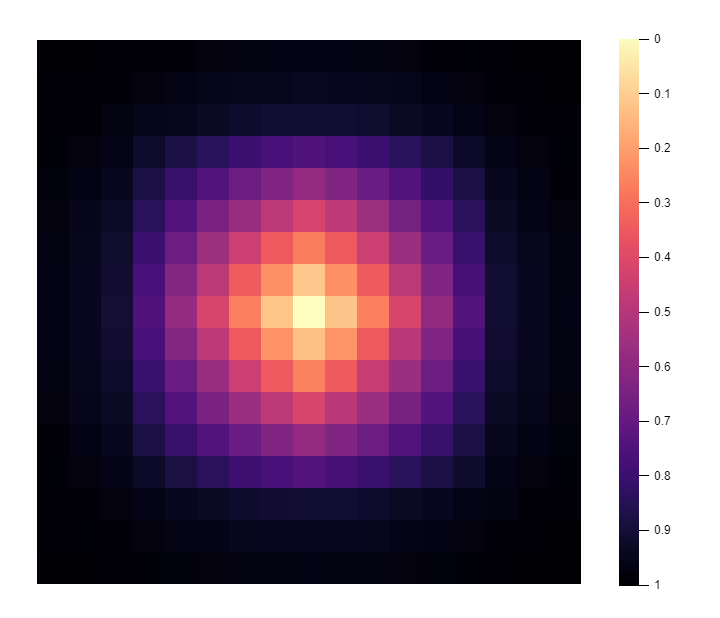
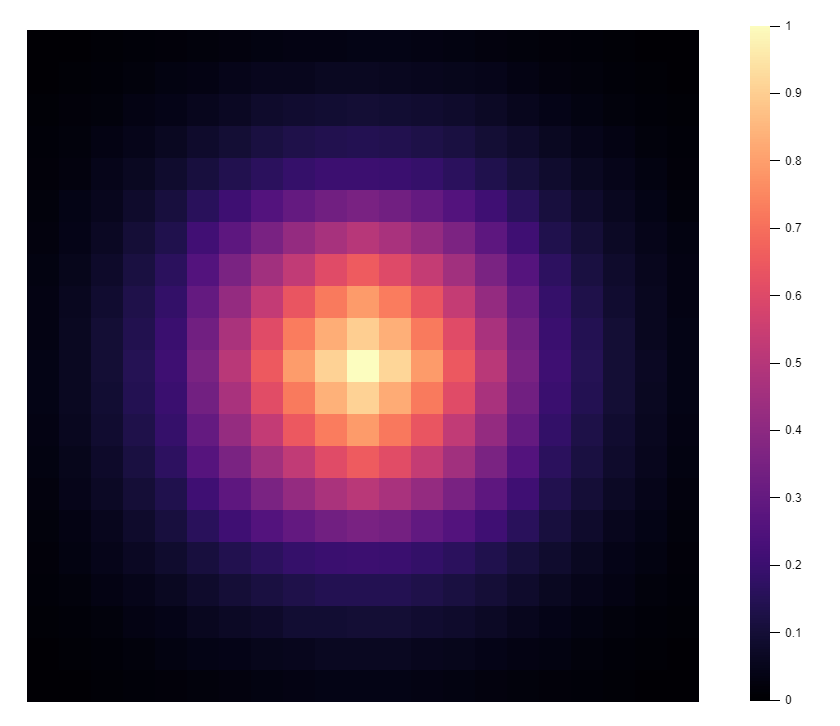
writing

diff --git a/generated-site/mobspawning.html b/generated-site/mobspawning.html
@@ -6,7 +6,7 @@
 };
 
 loadSetting("serif");
-loadSetting("darkmode");</script><script defer src="static/scripts/ui.js"></script><link rel="icon" type="image/png" sizes="16x16" href="static/images/favicon.png"><link rel="canonical" href="https://blog.bithole.dev/mobspawning.html"></head><body><header><a href="/"><img src="static/images/banner.jpg" alt="blog banner"></a></header><main><p id="date" class="date">July 8, 2022</p><h1 style="margin-top: 0">Minecraft Mob Spawning, Explained (1.19)</h1><nav><div id="contents"><p>Table of Contents</p><a href="#mob-categories"><p>Mob Categories</p></a><a href="#mob-cap"><p>Mob Cap</p></a><a href="#practical-example"><p>Practical Example</p></a><a href="#mob-cap-quirks"><p>Mob Cap Quirks</p></a><a href="#spawning"><p>Spawning</p></a><a href="#pack-spawning"><p>Pack Spawning</p></a><a href="#axolotl"><p>Axolotl</p></a><a href="#water-animals"><p>Water Animals</p></a><a href="#drowned"><p>Drowned</p></a><a href="#guardian"><p>Guardian</p></a><a href="#tropical-fish"><p>Tropical Fish</p></a><a href="#monsters"><p>Monsters</p></a><a href="#animals"><p>Animals</p></a><a href="#frog"><p>Frog</p></a><a href="#ghast"><p>Ghast</p></a><a href="#glow-squid"><p>Glow Squid</p></a><a href="#goat"><p>Goat</p></a><a href="#husk"><p>Husk</p></a><a href="#magma-cube"><p>Magma Cube</p></a><a href="#mooshroom"><p>Mooshroom</p></a><a href="#ocelot"><p>Ocelot</p></a><a href="#parrot"><p>Parrot</p></a><a href="#hoglin"><p>Hoglin</p></a><a href="#piglin"><p>Piglin</p></a><a href="#polar-bear"><p>Polar Bear</p></a><a href="#rabbit"><p>Rabbit</p></a><a href="#slime"><p>Slime</p></a><a href="#stray"><p>Stray</p></a><a href="#strider"><p>Strider</p></a><a href="#turtle"><p>Turtle</p></a><a href="#wolf"><p>Wolf</p></a><a href="#despawning"><p>Despawning</p></a><a href="#spawning-potentials"><p>Spawning Potentials</p></a></div><button id="show-toc">&#9776; Contents</button></nav><p><strong>Prologue:</strong> Thanks to all the members of the technical Minecraft community who answered my requests for comments and clarifications.</p>
+loadSetting("darkmode");</script><script defer src="static/scripts/ui.js"></script><link rel="icon" type="image/png" sizes="16x16" href="static/images/favicon.png"><link rel="canonical" href="https://blog.bithole.dev/mobspawning.html"></head><body><header><a href="/"><img src="static/images/banner.jpg" alt="blog banner"></a></header><main><p id="date" class="date">July 8, 2022</p><h1 style="margin-top: 0">Minecraft Mob Spawning, Explained (1.19)</h1><nav><div id="contents"><p>Table of Contents</p><a href="#mob-categories"><p>Mob Categories</p></a><a href="#mob-cap"><p>Mob Cap</p></a><a href="#practical-example"><p>Practical Example</p></a><a href="#mob-cap-quirks"><p>Mob Cap Quirks</p></a><a href="#spawning"><p>Spawning</p></a><a href="#pack-spawning-mechanics"><p>Pack Spawning Mechanics</p></a><a href="#axolotl"><p>Axolotl</p></a><a href="#water-animals"><p>Water Animals</p></a><a href="#drowned"><p>Drowned</p></a><a href="#guardian"><p>Guardian</p></a><a href="#tropical-fish"><p>Tropical Fish</p></a><a href="#monsters"><p>Monsters</p></a><a href="#animals"><p>Animals</p></a><a href="#frog"><p>Frog</p></a><a href="#ghast"><p>Ghast</p></a><a href="#glow-squid"><p>Glow Squid</p></a><a href="#goat"><p>Goat</p></a><a href="#husk"><p>Husk</p></a><a href="#magma-cube"><p>Magma Cube</p></a><a href="#mooshroom"><p>Mooshroom</p></a><a href="#ocelot"><p>Ocelot</p></a><a href="#parrot"><p>Parrot</p></a><a href="#hoglin"><p>Hoglin</p></a><a href="#piglin"><p>Piglin</p></a><a href="#polar-bear"><p>Polar Bear</p></a><a href="#rabbit"><p>Rabbit</p></a><a href="#slime"><p>Slime</p></a><a href="#stray"><p>Stray</p></a><a href="#strider"><p>Strider</p></a><a href="#turtle"><p>Turtle</p></a><a href="#wolf"><p>Wolf</p></a><a href="#despawning"><p>Despawning</p></a><a href="#spawning-potentials"><p>Spawning Potentials</p></a></div><button id="show-toc">&#9776; Contents</button></nav><p><strong>Prologue:</strong> Thanks to all the members of the technical Minecraft community who answered my requests for comments and clarifications.</p>
 <p>This article aims to fully describe the Minecraft spawning algorithm as it exists in <strong>Java Edition 1.19</strong>.</p>
 <p>These are the major steps in the spawning algorithm, in order:</p>
 <ul>
@@ -162,7 +162,7 @@ loadSetting("darkmode");</script><script defer src="static/scripts/ui.js"></scri
 <li>Withers</li>
 <li>Zombie villagers which are converting or have been traded with before</li>
 </ul>
-<h1 id="spawning">Spawning <a class="section-link" href="#spawning">&sect;</a></h1><p>Now, the game actually starts looking for a location to spawn a mob. It begins by selecting a random X and Z value; next, it looks up the height of the highest non-air block at that X/Z combo, and picks a random Y-value between the minimum build height and the Y-coordinate of air block above the highest block. Once a location is picked, the game checks if the block at that location is a full block, soul sand or mud. If so, the spawn attempt immediately ends. Otherwise, it will make up to three attempts to spawn a pack of mobs near that location.</p>
+<h1 id="spawning">Spawning <a class="section-link" href="#spawning">&sect;</a></h1><p>Now, the game actually starts looking for a location to spawn a mob. It begins by selecting a random X and Z value; next, it looks up the height of the highest non-air block at that X/Z combo, and picks a random Y-value between the minimum build height and the Y-coordinate of air block above the highest block. Once a location is picked, the game checks if the block at that location is a full block, soul sand or mud. If so, the spawn attempt immediately ends. Otherwise, it will make up to <strong>three</strong> attempts to spawn a pack of mobs near that location.</p>
 <aside>
 
 <p>The Y-value of the highest block for every X/Z combo is known as the <strong>heightmap</strong>. The heightmap of your current position is displayed on the debug screen as &quot;CH S&quot;.</p>
@@ -182,19 +182,24 @@ loadSetting("darkmode");</script><script defer src="static/scripts/ui.js"></scri
     <figcaption>The platform on the left had a layer of blocks above it at Y=255, while the platform on the right was not covered. Both platforms were allowed to spawn mobs for 15 seconds. There are nearly twice as many mobs on the uncovered platform compared to the covered one, demonstrating the importance of keeping the heightmap low in a mob farm.</figcaption>
 </figure>
 
-<h2 id="pack-spawning">Pack Spawning <a class="section-link" href="#pack-spawning">&sect;</a></h2><p>Minecraft spawns all mobs in packs, meaning that one spawn attempt may result in multiple mobs being spawned. Keep in mind that the algorithm can be rather idiosyncratic and knowing all the details is not too important when it comes to farm optimization.</p>
+<p>Keep in mind that there are practical tradeoffs to these recommendations. For instance, if you build your farm very low in the world, you will need to eliminate all spawnable spaces within 128 blocks of its proximity to prevent those spawns from filling up the mob cap. This means either lighting up all the caves within that radius or excavating a perimeter. I am way too lazy to do either of those things, so I usually build my farms above ground so I can position my AFK spot such that there are no unwanted spawnable spaces. </p>
+<h2 id="pack-spawning-mechanics">Pack Spawning Mechanics <a class="section-link" href="#pack-spawning-mechanics">&sect;</a></h2><p>Minecraft spawns all mobs in packs, meaning that one spawn attempt may result in multiple mobs being spawned. Keep in mind that the algorithm can be rather idiosyncratic and knowing all the details is not too important when it comes to farm optimization.</p>
 <p>The game starts by setting a counter for the number of remaining attempts to spawn a pack of mobs. This counter is initialized with a random value from 1 to 5.</p>
 <p>Next, the game adds a random X and Z offset between -5 and 5 to the current position. These values are picked so that smaller offsets are more common than further offsets; specifically, they follow a <a href="https://en.wikipedia.org/wiki/Triangular_distribution">triangular distribution</a>. Next, the game checks if the spot is within 24 blocks of the player or the world spawn point. If either of these conditions is met, the game repeats the process. Note that each time, the offset is added to the already-offsetted position, which means that pack spawn attempts can wander rather far away from the initial position (up to 20 blocks for a pack size of 4). However, in practice, this is unlikely; here&#39;s a heatmap showing the spatial distribution of pack spawn attempts.</p>
 <p><img src="resources/spawning/packspawn-heatmap.png" alt="pack spawn heatmap"></p>
-<p>As you can see, most of the attempts end up pretty close to the initial location; in fact, around 76% of all attempts are within 5 blocks of the initial location.</p>
-<p>Pack spawning is why building an overhang in a mob farm may increase its rates. By raising the heightmap in the blocks surrounding the spawning platforms, spawn attempts that begin outside of the farm could still find their way in. This is also why you should never place solid opaque blocks at foot level anywhere in the farm, since if a spawn attempt begins at that position it will instantly end. This includes the walls of the farm.</p>
+<p>As you can see, most of the attempts end up pretty close to the initial location; in fact, over 75% of all attempts are within 10 blocks of the initial location.</p>
+<p>Since I am a total nerd, we can also use this data to create a distribution of pack spawns according to distance. Here&#39;s what that looks like:</p>
+<p><img src="resources/spawning/distance-distr.png" alt="cumulative distribution of pack spawn distance"></p>
+<p><em>Just for fun :)</em></p>
+<p>Anyways, now for the practical implications. Pack spawning is why building an overhang in a mob farm may increase its rates. By raising the heightmap in the blocks surrounding the spawning platforms, spawn attempts that begin outside of the farm could still find their way in. </p>
+<p>This is also why you should never place solid opaque blocks at foot level anywhere in the farm, since if the game randomly selects that block nothing will spawn in that chunk for that tick. This includes the walls of the farm and positions outside of the farm.</p>
 <figure style="max-width: 560px">
     <img src="resources/spawning/footlevel.png" alt="explanation of why foot level blocks are bad">
     <figcaption>Do not do this. I have ways of finding you.</figcaption>
 </figure>
 
 <p>Anyways, if the position is <em>not</em> within 24 blocks of the player/world spawn and its chunk is loaded, the game gets the biome at that position and checks which mobs can spawn. At this stage, if the biome is a river biome and the category is water ambient mobs, there is a 98% chance that the spawn attempt will fail. At that point, the game moves the position by a random offset and checks the biome again until the attempt succeeds or the counter is exhausted.</p>
-<p>Each biome has specific settings for what mobs can spawn, the relative frequency of each mob type, and their pack sizes. The <a href="https://minecraft.fandom.com/wiki/Minecraft_Wiki">Minecraft Wiki</a> has this information on each of their biome pages, but I found that some of those figures are out of date, so I decided to make a page containing all the relevant. <a href="mob-spawning-weights.html">Check it out</a>!</p>
+<p>Each biome has specific settings for what mobs can spawn, the relative frequency of each mob type, and their pack sizes. The <a href="https://minecraft.fandom.com/wiki/Minecraft_Wiki">Minecraft Wiki</a> has this information on each of their biome pages, but I wanted to have all of those values in one place, so I made a page based on the values found in the game code. <a href="mob-spawning-weights.html">Check it out</a>!</p>
 <p>To find the probability of a mob type being chosen, simply divide its weight by the total of the weights of all mob types that could spawn in a given biome. For example, consider the plains monster weights:</p>
 <table>
 <thead>

diff --git a/generated-site/resources/spawning/generate-heatmap.html b/generated-site/resources/spawning/generate-heatmap.html
@@ -1,0 +1,78 @@
+<!DOCTYPE html>
+<html>
+    <head>
+        <style>
+            canvas {
+                border: 1px solid #aaa;
+            }
+        </style>
+    </head>
+    <body>
+        <canvas id="canvas" width="720" height="720"></canvas>
+        <script src="colormap.js"></script>
+        <script>
+            const SIZE = 21, COUNT = 1000000;
+            const arr = new Array(SIZE).fill().map(() => new Array(SIZE).fill(0));
+            const randint = max => Math.floor(Math.random() * max);
+            let oob = 0;
+            for(let i = 0; i < COUNT; i++) {
+                let x = Math.floor(SIZE/2), y = Math.floor(SIZE/2);
+                for(let j = 0; j < 5; j++) {
+                    x += randint(6) - randint(6);
+                    y += randint(6) - randint(6);
+                    if(arr[x] && y >= 0 && y < SIZE) {
+                        arr[x][y]++;
+                    } else {
+                        oob++;
+                        break;
+                    }
+                }
+            }
+            
+            console.log(oob/COUNT*100 + "%");
+            
+            canvas = document.getElementById("canvas");
+            ctx = canvas.getContext("2d");
+            const w = 32;
+            canvas.width = w * SIZE;
+            canvas.height = w * SIZE;
+            
+            const max = arr.reduce((a, c) => Math.max(a, c.reduce((a,c) => Math.max(a,c), 0)), 0);
+
+            for(let x = 0; x < SIZE; x++) {
+                for(let y = 0; y < SIZE; y++) {
+                    const c = colormap(arr[x][y] / max, MAGMA);
+                    ctx.fillStyle = `rgb(${c[0]*255},${c[1]*255},${c[2]*255})`;
+                    ctx.fillRect(x*w,y*w,w,w);
+                }
+            }
+
+        </script>
+        <canvas id="key" width="100" height="800"></canvas>
+        <script>
+            canvas = document.getElementById("key");
+            ctx = canvas.getContext("2d");
+
+            for(let i = 0; i <= 10; i++) {
+                ctx.beginPath();
+                const y = Math.floor(i / 10 * 674 + 10) + 1.5;
+                ctx.moveTo(10, y);
+                ctx.lineTo(40, y);
+                ctx.closePath();
+                ctx.stroke();
+            }
+
+            for(let i = 0; i < 674; i++) {
+                const c = colormap(i / 674, MAGMA);
+                ctx.fillStyle = `rgb(${c[0]*255},${c[1]*255},${c[2]*255})`;
+                ctx.fillRect(10, 674 - i + 10, 20, 1);
+            }
+
+            ctx.fillStyle = "#000000";
+            ctx.font = "12px Arial";
+            for(let i = 0; i <= 10; i++) {
+                ctx.fillText((10-i)/10, 45, i / 10 * 674 + 15);
+            }
+        </script>
+    </body>
+</html>

diff --git a/generated-site/resources/spawning/generate-histogram.html b/generated-site/resources/spawning/generate-histogram.html
@@ -1,0 +1,32 @@
+<!DOCTYPE html>
+<html>
+    <head>
+    </head>
+    <body>
+        <script>
+            const randint = max => Math.floor(Math.random() * max);
+            const COUNT = 1e6;
+            let num = 0;
+            let distr = new Array(32).fill(0);
+            for(let i = 0; i < COUNT; i++) {
+                let x = 0, y = 0;
+                for(let j = 0; j < 5; j++) {
+                    x += randint(6) - randint(6);
+                    y += randint(6) - randint(6);
+                    const dist = Math.abs(x) + Math.abs(y);
+                    distr[dist]++;
+                    num++;
+                }
+            }
+            
+            const cume = new Array(32).fill(0);
+            let tot = 0;
+            for(let i = 0; i < 32; i++) {
+                tot += distr[i];
+                cume[i] = tot / num;
+            }
+
+            console.log(cume);
+        </script>
+    </body>
+</html>

diff --git a/blogposts/mobspawning.md b/blogposts/mobspawning.md
@@ -123,7 +123,7 @@ There is a narrow class of mobs that contribute to the monster mob cap but do no
 
 # Spawning
 
-Now, the game actually starts looking for a location to spawn a mob. It begins by selecting a random X and Z value; next, it looks up the height of the highest non-air block at that X/Z combo, and picks a random Y-value between the minimum build height and the Y-coordinate of air block above the highest block. Once a location is picked, the game checks if the block at that location is a full block, soul sand or mud. If so, the spawn attempt immediately ends. Otherwise, it will make up to three attempts to spawn a pack of mobs near that location.
+Now, the game actually starts looking for a location to spawn a mob. It begins by selecting a random X and Z value; next, it looks up the height of the highest non-air block at that X/Z combo, and picks a random Y-value between the minimum build height and the Y-coordinate of air block above the highest block. Once a location is picked, the game checks if the block at that location is a full block, soul sand or mud. If so, the spawn attempt immediately ends. Otherwise, it will make up to **three** attempts to spawn a pack of mobs near that location.
 
 <aside>
 
@@ -148,28 +148,63 @@ The heightmap is a critical factor in the performance of a farm. Spawning attemp
     <figcaption>The platform on the left had a layer of blocks above it at Y=255, while the platform on the right was not covered. Both platforms were allowed to spawn mobs for 15 seconds. There are nearly twice as many mobs on the uncovered platform compared to the covered one, demonstrating the importance of keeping the heightmap low in a mob farm.</figcaption>
 </figure>
 
-## Pack Spawning
+Keep in mind that there are practical tradeoffs to these recommendations. For instance, if you build your farm very low in the world, you will need to eliminate all spawnable spaces within 128 blocks of its proximity to prevent those spawns from filling up the mob cap. This means either lighting up all the caves within that radius or excavating a perimeter. I am way too lazy to do either of those things, so I usually build my farms above ground so I can position my AFK spot such that there are no unwanted spawnable spaces. 
 
-Minecraft spawns all mobs in packs, meaning that one spawn attempt may result in multiple mobs being spawned. Keep in mind that the algorithm can be rather idiosyncratic and knowing all the details is not too important when it comes to farm optimization.
+## Pack Spawning Mechanics
 
-The game starts by setting a counter for the number of remaining attempts to spawn a pack of mobs. This counter is initialized with a random value from 1 to 5.
+Minecraft spawns all mobs in packs, meaning that one spawn attempt generally results in multiple mobs being spawned. Keep in mind that the algorithm can be rather idiosyncratic and knowing all the details is not too important when it comes to farm optimization.
 
-Next, the game adds a random X and Z offset between -5 and 5 to the current position. These values are picked so that smaller offsets are more common than further offsets; specifically, they follow a [triangular distribution](https://en.wikipedia.org/wiki/Triangular_distribution). Next, the game checks if the spot is within 24 blocks of the player or the world spawn point. If either of these conditions is met, the game repeats the process. Note that each time, the offset is added to the already-offsetted position, which means that pack spawn attempts can wander rather far away from the initial position (up to 20 blocks for a pack size of 4). However, in practice, this is unlikely; here's a heatmap showing the spatial distribution of pack spawn attempts.
+The idea behind pack spawning is that the game starts from the initial position and "wanders" from it by adding random offsets to the position's X and Z coordinates, attempting to spawn a mob each time. Specifically, the game picks two random numbers between -5 and 5 to add to the X and Z. These values are picked so that smaller offsets are more common than further offsets; specifically, they follow a [triangular distribution](https://en.wikipedia.org/wiki/Triangular_distribution). 
 
-![pack spawn heatmap](resources/spawning/packspawn-heatmap.png)
+When the position is offset for the first time, the game checks the biome at that position, and retrieves the list of mobs in the current category that can spawn in that biome. That list looks something like this:
 
-As you can see, most of the attempts end up pretty close to the initial location; in fact, around 76% of all attempts are within 5 blocks of the initial location.
+| Mob Type            | Weight |
+|---------------------|--------|
+| Spider              | 100    |
+| Zombie              | 95     |
+| Zombie Villager     | 5      |
+| Skeleton            | 100    |
+| Creeper             | 100    |
+| Slime               | 100    |
+| Enderman            | 10     |
+| Witch               | 5      |
 
-Pack spawning is why building an overhang in a mob farm may increase its rates. By raising the heightmap in the blocks surrounding the spawning platforms, spawn attempts that begin outside of the farm could still find their way in. This is also why you should never place solid opaque blocks at foot level anywhere in the farm, since if a spawn attempt begins at that position it will instantly end. This includes the walls of the farm.
+*The mob spawning weights and pack sizes are documented [here](mob-spawning-weights.html).*
+
+The odds of a mob type being selected is equal to its weight divided by the total weight of all the mob types in that category. In this case, the probability that a zombie is picked to be spawned is `\frac{95}{515}`.
+
+## Spawn Conditions
+
+Over time, the rules that decide whether a mob should be allowed to spawn have grown into a sprawling, Byzantine mess. I will attempt to give a mostly complete description of them here.
+
+For starters, all attempts to spawn a mob as part of a pack fail if they are within 24 blocks of the player or the world spawn point. The position must also be within a loaded chunk and within the world border. However, the chunk does not have to be *entity* ticking, so it's possible for mobs to spawn in lazy chunks that never despawn. These mobs still contribute to the mobcap, so it may lead to situations where the mob cap gets quickly taken up. This phenomenon was once classified as a [bug](https://bugs.mojang.com/browse/MC-155289), but for unknown reasons this behavior was reintroduced in 1.17. Generally speaking, this is only a problem if you play on a very low simulation distance.
+
+-----
+Anyways, now for the practical implications. Pack spawning is why building an overhang in a mob farm may increase its rates. By raising the heightmap in the blocks surrounding the spawning platforms, spawn attempts that begin outside of the farm could still find their way in. 
+
+This is also why you should never place solid opaque blocks at foot level anywhere in the farm, since if the game randomly selects that block nothing will spawn in that chunk for that tick. This includes the walls of the farm and positions outside of the farm.
 
 <figure style="max-width: 560px">
     <img src="resources/spawning/footlevel.png" alt="explanation of why foot level blocks are bad">
     <figcaption>Do not do this. I have ways of finding you.</figcaption>
 </figure>
+-----
 
-Anyways, if the position is *not* within 24 blocks of the player/world spawn and its chunk is loaded, the game gets the biome at that position and checks which mobs can spawn. At this stage, if the biome is a river biome and the category is water ambient mobs, there is a 98% chance that the spawn attempt will fail. At that point, the game moves the position by a random offset and checks the biome again until the attempt succeeds or the counter is exhausted.
+ Next, the game checks if the spot is within 24 blocks of the player or the world spawn point. If either of these conditions is met, the game repeats the process. Note that each time, the offset is added to the already-offsetted position, which means that pack spawn attempts can wander rather far away from the initial position (up to 20 blocks for a pack size of 4). However, in practice, this is unlikely; here's a heatmap showing the spatial distribution of pack spawn attempts.
 
-Each biome has specific settings for what mobs can spawn, the relative frequency of each mob type, and their pack sizes. The [Minecraft Wiki](https://minecraft.fandom.com/wiki/Minecraft_Wiki) has this information on each of their biome pages, but I found that some of those figures are out of date, so I decided to make a page containing all the relevant. [Check it out](mob-spawning-weights.html)!
+![pack spawn heatmap](resources/spawning/packspawn-heatmap.png)
+
+As you can see, most of the attempts end up pretty close to the initial location; in fact, over 75% of all attempts are within 10 blocks of the initial location.
+
+Since I am a total nerd, we can also use this data to create a distribution of pack spawns according to distance. Here's what that looks like:
+
+![cumulative distribution of pack spawn distance](resources/spawning/distance-distr.png)
+
+*Just for fun :)*
+
+If the position is *not* within 24 blocks of the player/world spawn and its chunk is loaded, the game gets the biome at that position and checks which mobs can spawn. At this stage, if the biome is a river biome and the category is water ambient mobs, there is a ~98% chance that the spawn attempt will fail.
+
+Each biome has specific settings for what mobs can spawn, the relative frequency of each mob type, and their pack sizes. The [Minecraft Wiki](https://minecraft.fandom.com/wiki/Minecraft_Wiki) has this information on each of their biome pages, but I wanted to have all of those values in one place, so I made a page based on the values found in the game code. [Check it out](mob-spawning-weights.html)!
 
 To find the probability of a mob type being chosen, simply divide its weight by the total of the weights of all mob types that could spawn in a given biome. For example, consider the plains monster weights:
 
